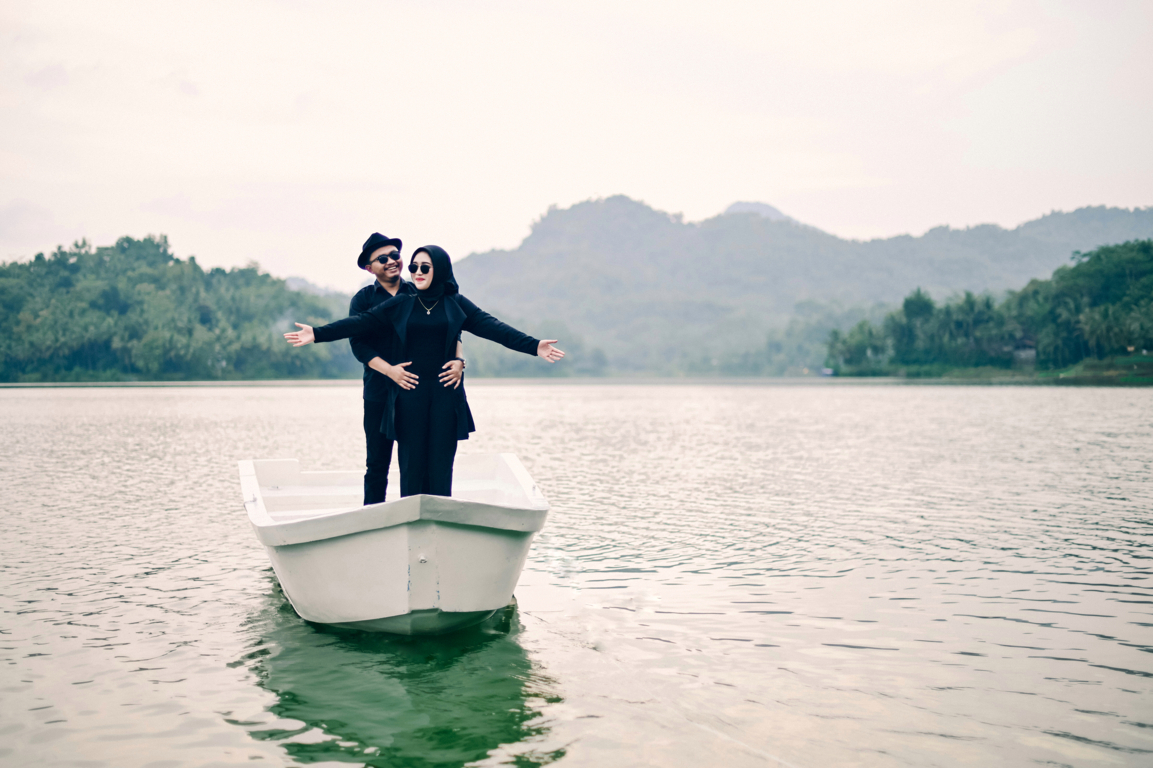
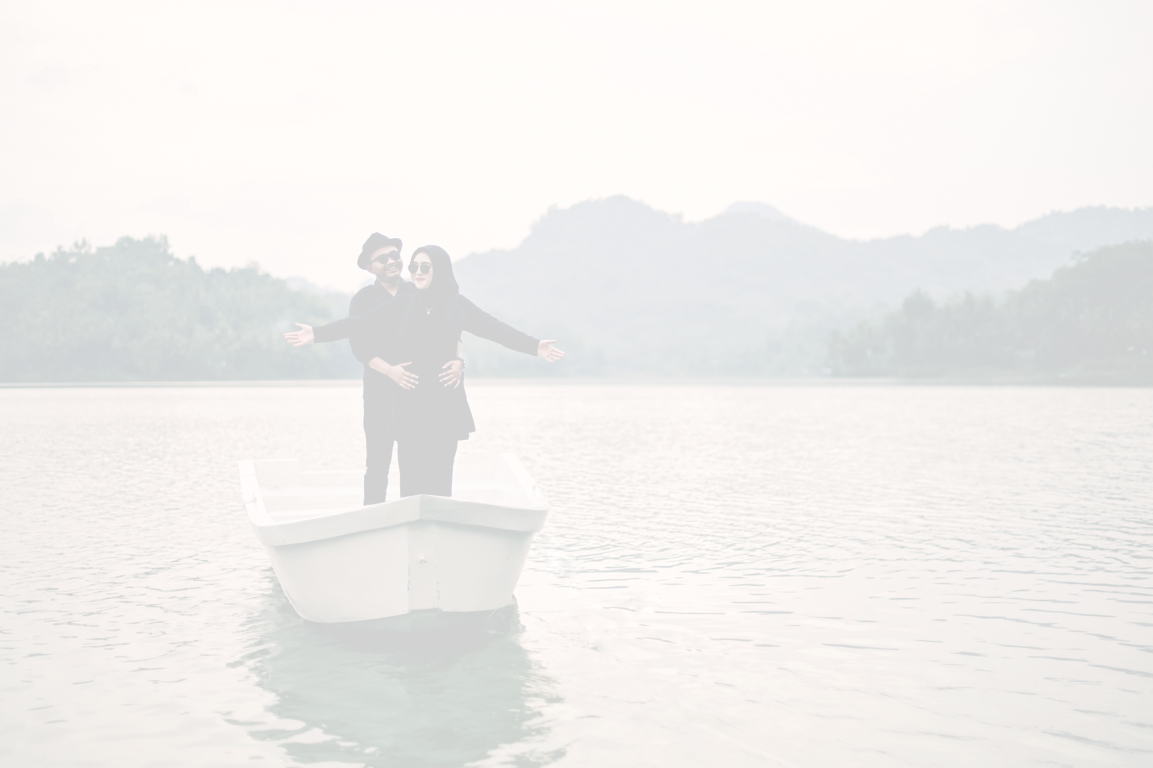
Update content.

diff --git a/index.html b/index.html
@@ -50,10 +50,10 @@
             <div class="col-md-6 col-12" id="front-image">
               <img src="img/img3.jpg" alt=""/>
             </div>
-            <div class="flex col-md-6 col-12 mt-auto mb-auto">
+            <div class="flex col-md-6 col-12 mt-auto mb-auto" id="front-text">
               <p><small>The Wedding of</small></p>
               <h1 class="font-dancing fs-60">Asha Aprilia Putri <br/>&<br /> Bagus Aji Santoso, S.Pd.</h1>
-              <p class="mt-3">Sabtu, 31 Desember 2022</p>
+              <small class="mt-3">Sabtu, 31 Desember 2022</small>
               <hr class="border-secondary w-50 mx-auto" />
               <p class="mb-1">Kepada Bapak/Ibu/Saudara/i</p>
               <p class="mb-2 mt-2"><span class="fw-semibold h4" id="nama"></span></p>
@@ -572,9 +572,9 @@
     <div class="container pb-5">
       <div class="row text-center">
         <div class="col-12">
-          <p class="p-0 m-0">
+          <small class="p-0 m-0">
             Original Design by <a target="_blank" href="https://github.com/aldiui">Aldi Jaya Mulyana</a> | 2022
-          </p>
+          </small>
         </div>
       </div>
     </div>

diff --git a/css/style.css b/css/style.css
@@ -69,6 +69,11 @@
   #front-image {
     display: none;
   }
+  #front-text {
+    padding-top: 40%;
+    height: 100vh;
+    background-image: url(../img/img3-foreground.jpg); background-size: cover;
+  }
 }
 
 #front-image img {
